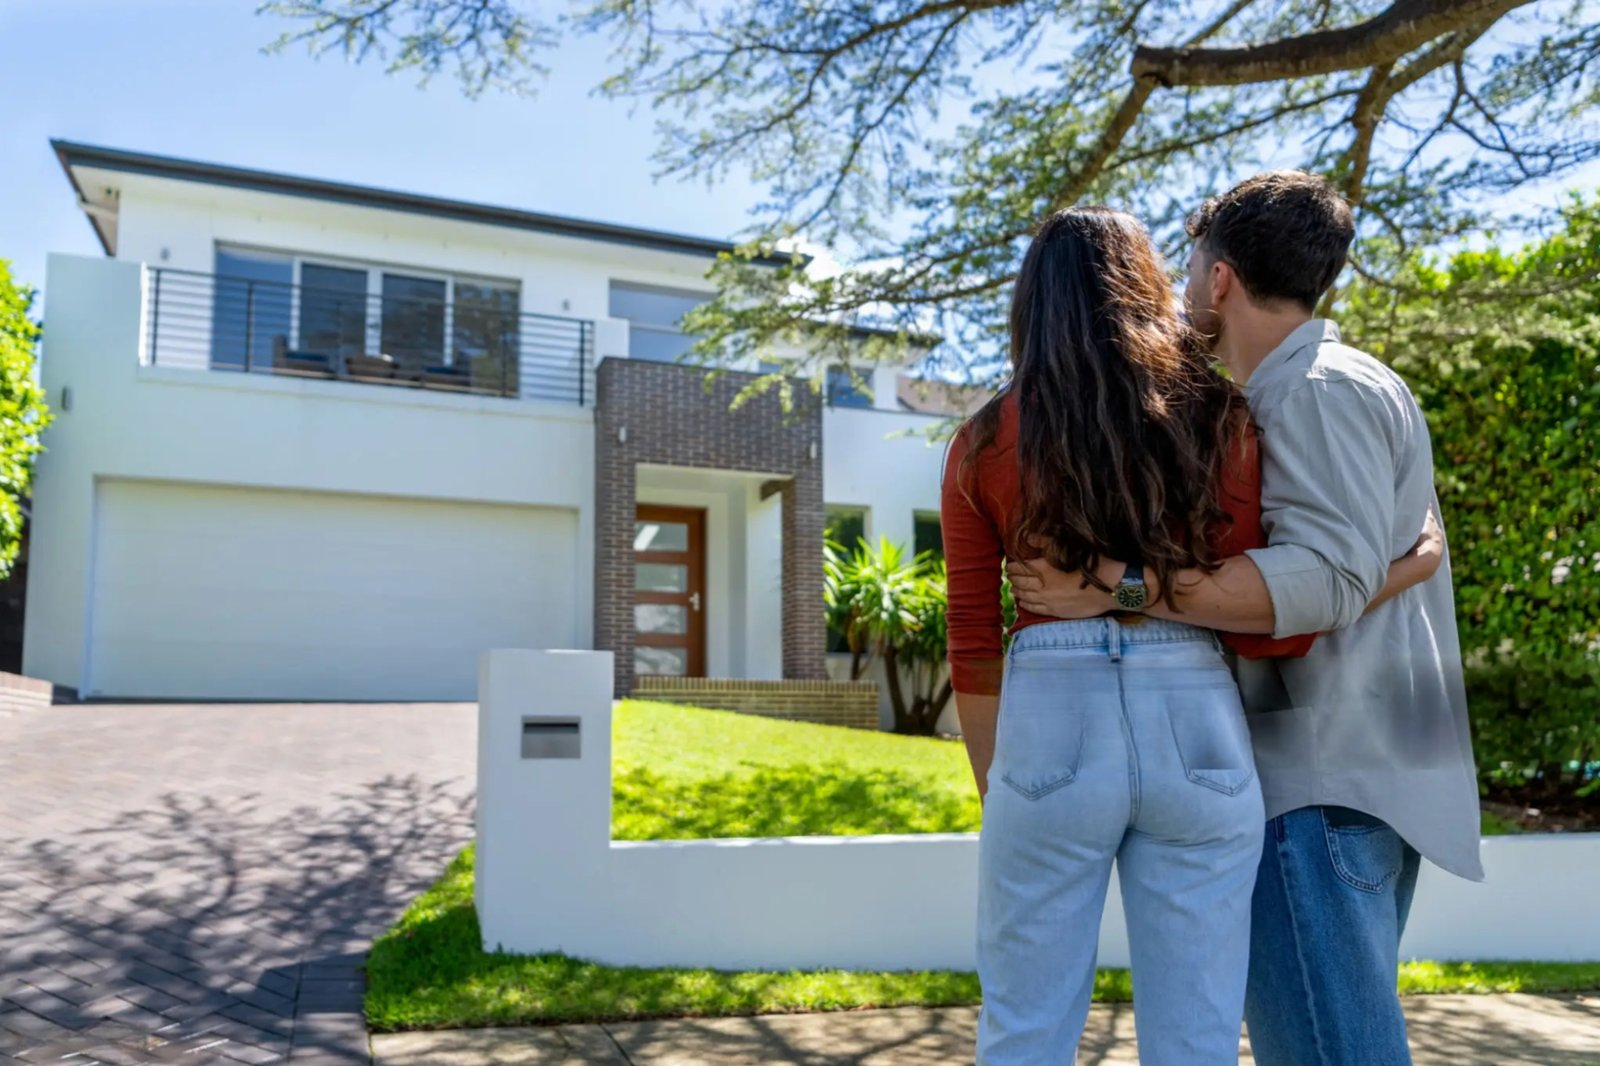
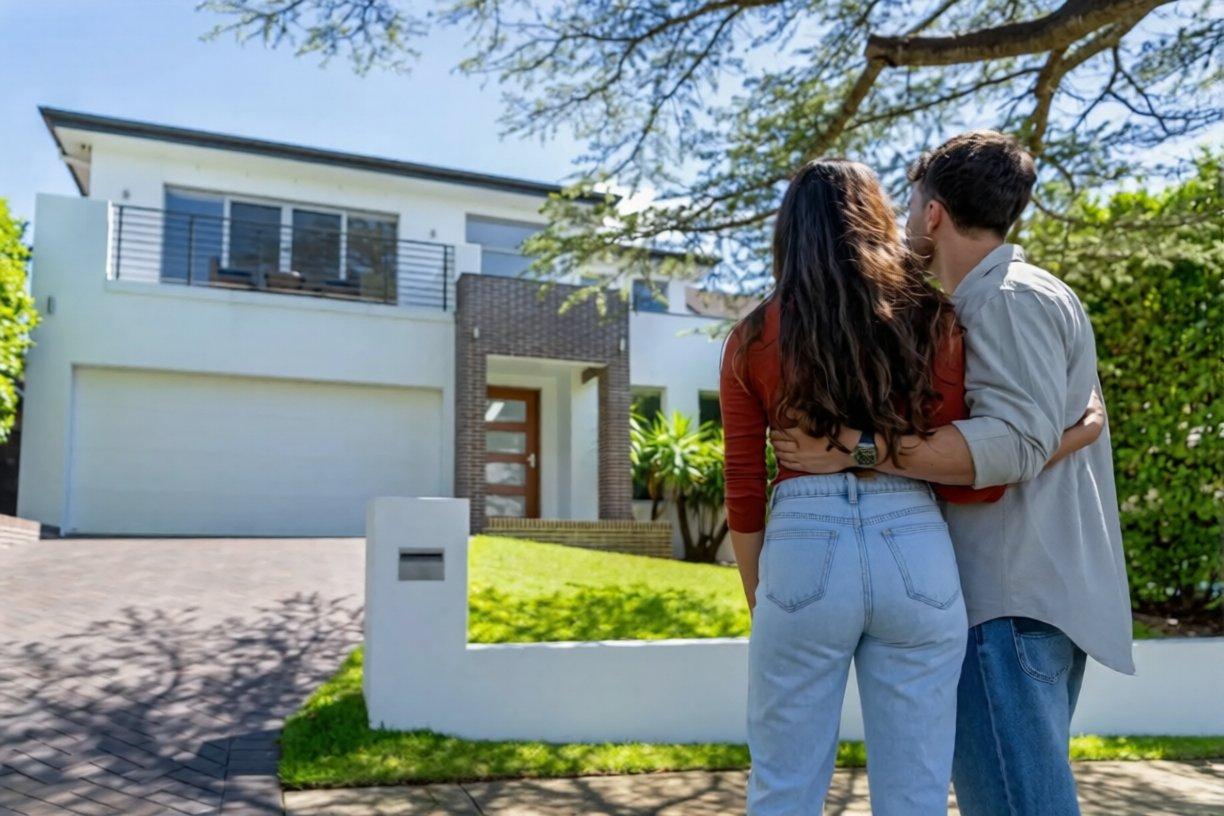
Replace persona photos 01+02 (lower file size); fix homepage hero card overlapping face on mobile

diff --git a/assets/css/style.css b/assets/css/style.css
@@ -338,7 +338,30 @@ section { padding: var(--sp-7) 0; }
 
 @media (max-width: 880px) {
   .hero-grid { grid-template-columns: 1fr; }
-  .hero-visual { aspect-ratio: 16 / 11; max-width: 100%; }
+  /* On mobile, stack photo + card vertically — the absolute overlay doesn't work
+     because the narrow aspect ratio puts the card over Arthur's face. */
+  .hero-visual {
+    aspect-ratio: auto;
+    max-width: 100%;
+    position: relative;
+  }
+  .hero-photo {
+    position: relative;
+    inset: auto;
+    width: 100%;
+    height: auto;
+    aspect-ratio: 4 / 5;
+    object-fit: cover;
+    object-position: center 18%;
+    border-radius: var(--r-md);
+  }
+  .hero-card {
+    position: relative;
+    bottom: auto;
+    left: auto;
+    right: auto;
+    margin: calc(var(--sp-3) * -1) var(--sp-3) 0;
+  }
 }
 
 /* =========================================================
@@ -1440,4 +1463,29 @@ section { padding: var(--sp-7) 0; }
   margin-bottom: 0.4rem;
 }
 .calc-result .secondary {
-  color: rgba(251, 246, 238, 0.8
+  color: rgba(251, 246, 238, 0.8);
+  font-size: 0.95rem;
+  margin-bottom: var(--sp-2);
+}
+.calc-result hr {
+  border: none;
+  border-top: 1px solid rgba(251, 246, 238, 0.18);
+  margin: var(--sp-2) 0;
+}
+.calc-result .breakdown { font-size: 0.95rem; color: rgba(251, 246, 238, 0.85); }
+.calc-result .breakdown div {
+  display: flex;
+  justify-content: space-between;
+  margin-bottom: 0.4rem;
+}
+.calc-result .breakdown strong { color: var(--cream-50); }
+
+.calc-disclaimer {
+  margin-top: var(--sp-3);
+  padding: var(--sp-2) var(--sp-3);
+  background: var(--cream-100);
+  border-left: 3px solid var(--honey-500);
+  border-radius: var(--r-sm);
+  font-size: 0.88rem;
+  color: var(--ink-500);
+}
